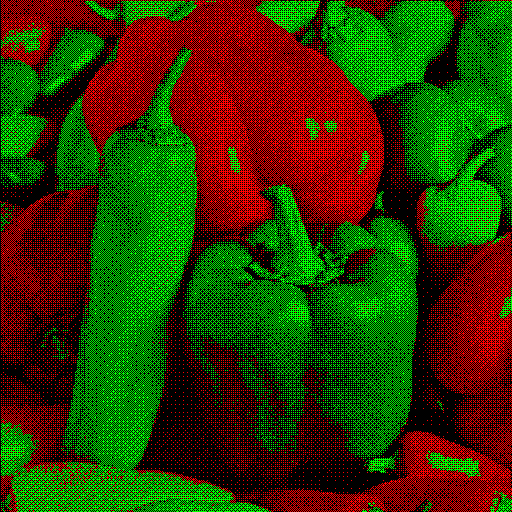
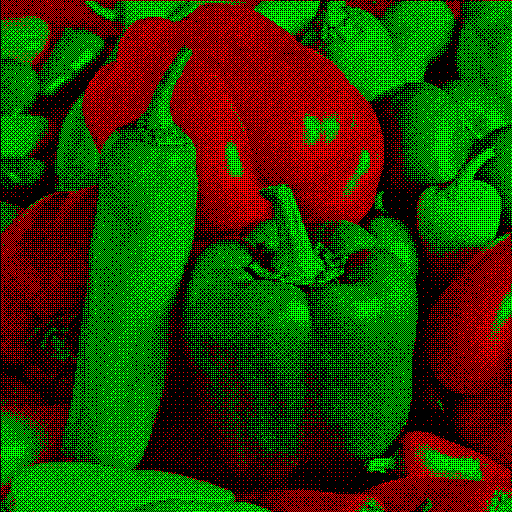
Update tests

diff --git a/dither_test.go b/dither_test.go
@@ -5,6 +5,7 @@ import (
 	"image/color"
 	_ "image/jpeg"
 	"image/png"
+	"math/rand"
 	"os"
 	"reflect"
 	"testing"
@@ -92,6 +93,7 @@ func createDitheredImage(input, output string, d *Ditherer, t *testing.T) {
 }
 
 func TestRandomNoiseGrayscale(t *testing.T) {
+	rand.Seed(1)
 	d := NewDitherer(blackWhite)
 	d.Mapper = RandomNoiseGrayscale(-0.5, 0.5)
 	d.SingleThreaded = true
@@ -99,6 +101,7 @@ func TestRandomNoiseGrayscale(t *testing.T) {
 }
 
 func TestRandomNoiseRGB(t *testing.T) {
+	rand.Seed(1)
 	noise := RandomNoiseRGB(-0.5, 0.5, -0.5, 0.5, -0.5, 0.5)
 
 	d := NewDitherer(redGreenBlack)
